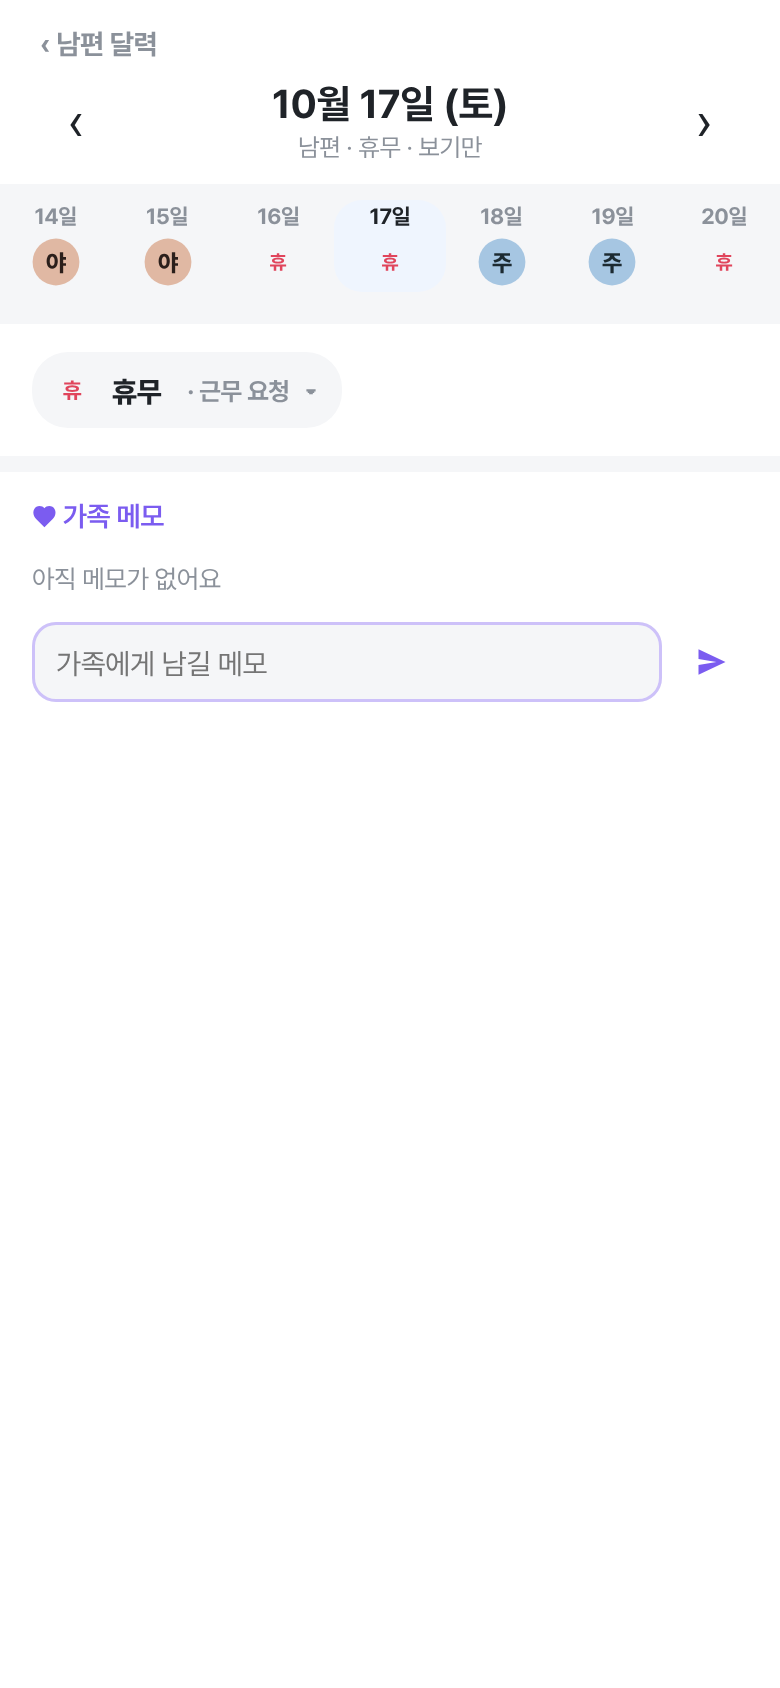
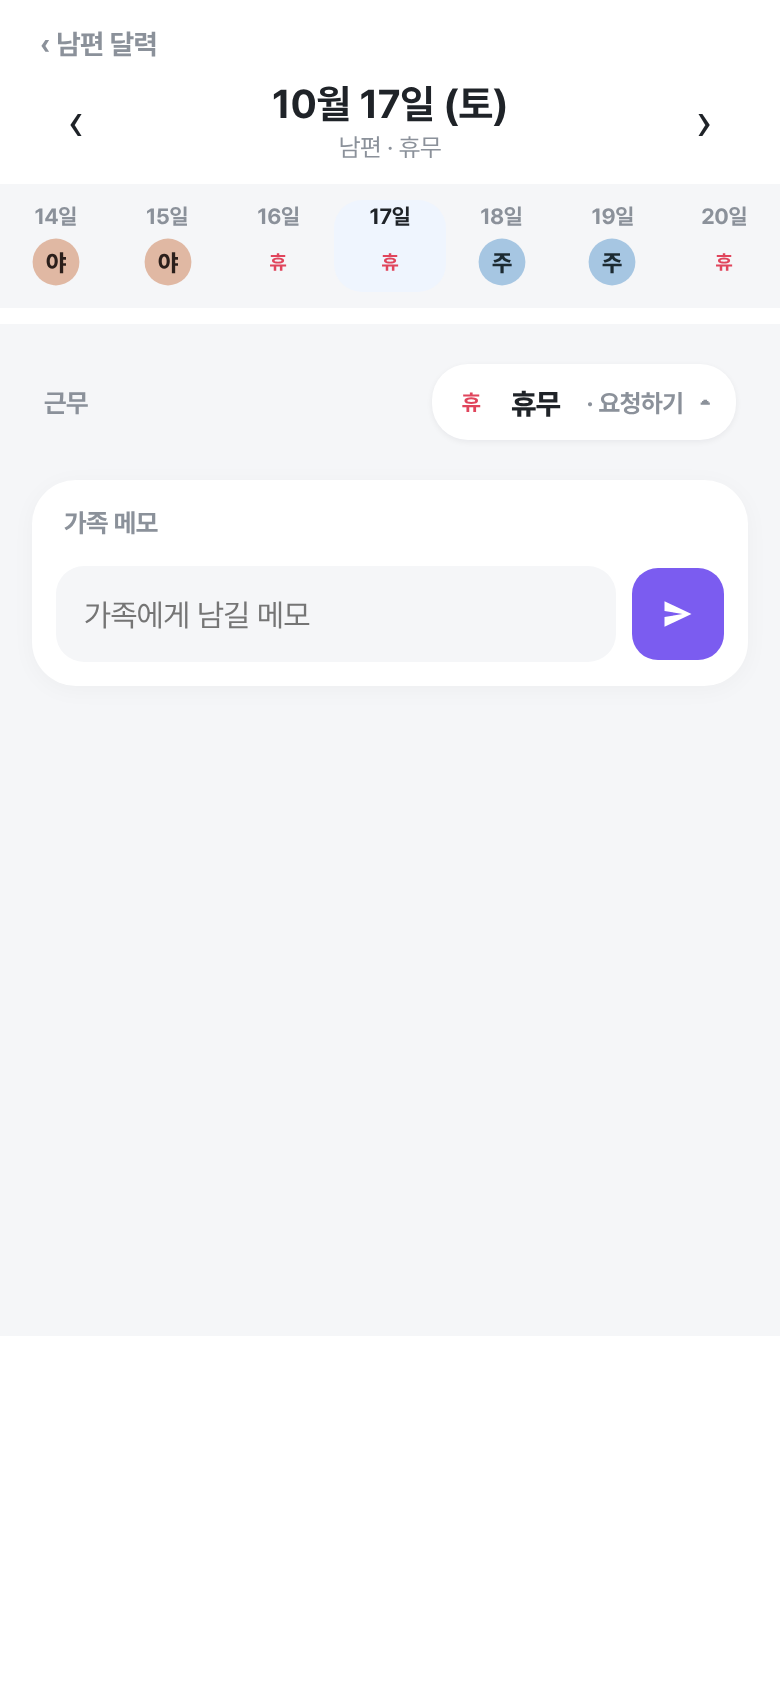
v0.168: 근무 요청 화면(가족 폰) 새 모양
- 내 날짜 창과 같은 짜임: 회색 바탕 · 흰 카드 · 근무 줄 알약
- 근무 칩 → "휴무 → 주간" 확인 줄 → 한마디 → 여러 날 고르기 → 요청 보내기(남은 건수)
- 요청 중이면 상태 카드(취소) · 가족 메모 카드 · "보기만" 뺌
- 시험 s83

Claude-Session: https://claude.ai/code/session_01JTBnEvptp151JygSjZNCTX

diff --git a/app/src/main/assets/index.html b/app/src/main/assets/index.html
@@ -1952,6 +1952,20 @@ html[data-theme="dark"] .tglow .g-hb{stroke:#fff;opacity:.07}
 .cell.today.glowing::after{opacity:1!important}
 .tglow .g-pb{filter:blur(2px);opacity:var(--pe,0)}.tglow .g-po{stroke-width:11px;opacity:.22}.tglow .g-po2{stroke-width:6px;opacity:.4}
 .tglow .g-pin{stroke:#fff;stroke-width:1.6px;opacity:calc(.9*var(--pe,0))}.tglow .g-pin2{stroke-width:5px;opacity:calc(.25*var(--pe,0))}
+/* v0.168 근무 요청 화면(가족 달력 날짜 창) 새 모양 — 내 날짜 창과 같은 짜임 */
+.vrbody .vrcard{display:block}.vrbody .vrcard .tchips{padding:2px 4px 0}
+.vrask{margin:14px 4px 0;font-size:14px;font-weight:600;color:color-mix(in srgb,var(--fg) 70%,var(--bg))}.vrask b{color:var(--fg)}
+.vrbody #rqm2{display:block;width:100%;border:0;background:var(--surface);border-radius:14px;padding:12px 14px;font-size:15px;min-height:56px;margin-top:12px;resize:none;color:var(--fg)}
+.vrbody .paint-btn{margin-top:10px}
+.vrsend{display:flex;align-items:center;justify-content:center;width:100%;height:50px;margin-top:10px;border-radius:14px;font-size:16px;font-weight:800}.vrsend small{font-size:13px;font-weight:600;opacity:.8;margin-left:2px}
+.vrst{display:flex;align-items:center;gap:12px;padding:4px 4px 6px}.vrst+.vrst{border-top:1px solid var(--line);padding-top:10px}
+.vrst .ic{width:40px;height:40px;border-radius:12px;flex:none;display:grid;place-items:center;color:var(--c);background:color-mix(in srgb,var(--c) 12%,var(--bg))}
+.vrst .tx{min-width:0}.vrst b{display:block;font-size:15.5px}.vrst span{font-size:13px;color:var(--muted);font-weight:600}.vrst em{display:block;font-style:normal;font-size:13.5px;color:var(--fg);margin-top:2px}
+.vrst .x{margin-left:auto;flex:none;font-size:13.5px;font-weight:700;color:var(--muted);background:var(--surface);border-radius:999px;padding:7px 12px}
+.vrst+.tchips{margin-top:10px}
+.vrbody .vcm .vcmt{color:var(--muted)}
+.vrbody .vcmemo-bar{display:flex;gap:8px;margin-top:8px}.vrbody .vcmemo-bar input{flex:1;height:48px;border:0;border-radius:14px;background:var(--surface);padding:0 14px;font-size:15.5px;box-shadow:none}
+.vrbody .vcmemo-bar .send{flex:none;width:46px!important;height:46px!important;border-radius:13px!important;background:var(--fam)!important;color:#fff!important;display:grid;place-items:center}
 /* v0.148 빛이 도는 동안: 원래 테두리는 숨기고 빛을 따라 그려지는 선(g-draw)으로 · 끝나면 다시 테두리 */
 .cell.today.glowing::after{opacity:0}
 .tglow .g-draw{stroke-width:3px;opacity:1;stroke:var(--tdc,var(--today))}
@@ -10958,7 +10972,7 @@ function vcMemoHtml(k){
     if(mine&&vcMemoEdit===m.id)return `<div class="mcard fam"><div class="mt2" style="width:100%"><input type="text" id="vcmedit" maxlength="200" value="${esc(m.text)}" style="width:100%"><div class="vcm-btns"><button class="btn sm ghost" data-act="vc-memo-cancel" data-k="${k}">취소</button><button class="btn sm" data-act="vc-memo-save" data-k="${k}" data-mid="${m.id}">저장</button></div></div></div>`;
     return `<div class="mcard fam"><div class="mt2"><span class="tx">${linkify(m.text,{click:true,fam:m.by!==role()})}</span><div class="meta"><span class="who ${m.by===role()?'me':''}">${esc(whoName(m.by))}</span> · ${rel(m.t)}</div></div>${mine?`<span class="vcm-act"><button data-act="vc-memo-edit" data-k="${k}" data-mid="${m.id}" aria-label="고치기">✎</button><button data-act="vc-memo-del" data-k="${k}" data-mid="${m.id}" aria-label="지우기">🗑</button></span>`:''}</div>`;
   }).join('');
-  return `<div class="sec-t" style="color:var(--fam)">♥ 가족 메모</div>${list||'<div class="mempty">아직 메모가 없어요</div>'}
+  return `<div class="sec-t vcmt">가족 메모</div>${list}
     <div class="vcmemo-bar"><input type="text" id="vcmemo" maxlength="200" placeholder="가족에게 남길 메모" enterkeyhint="send"><button class="send fam" data-act="vc-memo-send" data-k="${k}" aria-label="보내기">${ICON.send}</button></div>
     ${famRemain()<=3?`<div class="usage-hint" style="margin-top:4px">무료 ${famRemain()}건 남음 · 가족 모두에게 보이고 알림이 가요</div>`:''}`;
 }
@@ -11040,25 +11054,26 @@ function vcDayHtml(k){
   const mine=reqUniq(S.requests.filter(r=>r.srv&&r.dir==='out'&&r.peer===p.uid&&r.date===k).sort((a,b)=>b.t-a.t));
   const open=mine.some(r=>r.st==='pending'||r.st==='accepted');
   const strip=Array.from({length:61},(_,j)=>j-30).filter(i=>{const x=addDays(d,i),mm=x.getFullYear()*12+x.getMonth();return i===0||(mm>=MIN_M&&mm<=MAX_M);}).map(i=>{const x=addDays(d,i);return `<button class="dsi ${i===0?'on':''}${fmt(x)===dsTK()?' td':''}" data-act="vc-go" data-k="${fmt(x)}"><small>${x.getDate()}일</small>${schBadge(p.sch,schShift(p.sch,x),'sm')}</button>`;}).join('');
-  const tag=open?'요청 중':past?'':'근무 요청',canRq=!past||mine.length,isOpen=vcRqOpen&&canRq;
+  const tag=open?'요청 중':past?'':'요청하기',canRq=!past||mine.length,isOpen=canRq&&(vcRqOpen||open);   // v0.168 새 모양 (시안 design/request): 내 날짜 창과 같은 짜임 · 요청 중이면 상태 카드가 바로 보임
+  const tn=x=>esc(schType(p.sch,x).name||x),ro=x=>josa(schType(p.sch,x).name||x,'으로','로');
+  const RS={pending:['clock','답 기다리는 중','#f08a00'],accepted:['check','수락됐어요','#1fa971'],applied:['check','근무표에 들어갔어요','#1fa971'],rejected:['x','거절됐어요','#e5484d'],cancelled:['x','취소했어요','#8b95a1']};
+  const stCard=r=>{const [ic,lb,c]=RS[r.st]||RS.pending;return `<div class="vrst"><span class="ic" style="--c:${c}">${npi(ic,20)}</span><div class="tx"><b>${tn(r.want)}${ro(r.want)} 요청했어요</b><span>${lb} · ${rel(r.tu||r.t)}</span>${r.reply?`<em>"${esc(r.reply)}"</em>`:''}</div>${r.st==='pending'?`<button class="x" data-act="rqcancel" data-id="${r.id}">취소</button>`:''}</div>`;};
   const chips=(p.sch.types||[]).slice(0,8).map(x=>`<button class="tchip ${want===x.k?'on':''}" data-act="vc-want" data-s="${esc(x.k)}">${schBadge(p.sch,x.k,'tc')}<small>${esc(x.name)}</small></button>`).join('');
-  const body=!isOpen?'':`<div class="sec-t">📩 ${esc(p.name)}에게 근무 요청<button class="sh-fold" data-act="vc-rq">▴ 접기</button></div>
-    ${mine.length?mine.map(r=>reqCard(r)).join(''):''}
-    ${past?'<div class="hint" style="margin:6px 0 0;padding:0">지난 날이에요 · 보기만 돼요</div>':open?'<div class="hint" style="margin:6px 0 0;padding:0">이미 진행 중인 요청이 있어요 · 답을 받은 뒤에 새로 보낼 수 있어요</div>'
-      :`<div class="tchips">${chips}</div>
-        <textarea id="rqm2" placeholder="요청 메시지 (예: 아이 할로윈 파티라 같이 가자)" maxlength="60" style="margin-top:8px;min-height:58px"></textarea>
-        <div class="row" style="margin-top:10px"><div class="usage-hint">무료 ${famRemain()}건 남음</div><span class="grow"></span><button class="btn sm ghost" data-act="vc-multi-from" data-k="${k}">여러 날 고르기</button><button class="btn sm" data-act="vc-send">요청 보내기</button></div>`}`;
+  const form=past||open?'':`<div class="tchips">${chips}</div>
+        ${want!==sh?`<div class="vrask"><b>${esc(ty.name)} → ${tn(want)}</b>${ro(want)} 바꿔 달라고 할게요</div>`:''}
+        <textarea id="rqm2" placeholder="한마디 (예: 아이 학예회라 같이 가자)" maxlength="60"></textarea>
+        <button class="paint-btn" data-act="vc-multi-from" data-k="${k}">${npi('calendar-days',18)}<b>여러 날 고르기</b><i>›</i></button>
+        <button class="btn vrsend" data-act="vc-send">요청 보내기<small> · ${famRemain()}건 남음</small></button>`;
+  const card=!isOpen?'':`<div class="sh-card vrcard">${mine.map(stCard).join('')}${form}</div>`;
   return `<div class="dtop"><button data-act="close">‹ ${esc(p.name)} 달력</button></div>
     <div class="dfh"><button class="ib" data-act="vc-go" data-k="${fmt(addDays(d,-1))}" aria-label="전날">‹</button>
-      <div class="dft"${dsTgo(k,'vc-go')}><b class="${hol?'hl':''}">${d.getMonth()+1}월 ${d.getDate()}일 (${DOW[d.getDay()]})</b><small>${esc(p.name)} · ${esc(ty.name)} · 보기만${hol?` · <span class="hl">${esc(hol)}</span>`:''}${dsTdy(k)}</small>${dsHint(k)}</div>
+      <div class="dft"${dsTgo(k,'vc-go')}><b class="${hol?'hl':''}">${d.getMonth()+1}월 ${d.getDate()}일 (${DOW[d.getDay()]})</b><small>${esc(p.name)} · ${esc(ty.name)}${hol?` · <span class="hl">${esc(hol)}</span>`:''}${dsTdy(k)}</small>${dsHint(k)}</div>
       <button class="ib" data-act="vc-go" data-k="${fmt(addDays(d,1))}" aria-label="다음날">›</button></div>
     <div class="dstrip" id="dstrip">${strip}</div>
-    <div class="sec shsec vcrq ${isOpen?'open':''}">
-      ${isOpen?'':`<button class="sh-pill" ${canRq?'data-act="vc-rq"':''}>${schBadge(p.sch,sh,'sm')}${esc(ty.name)}${tag?`<small class="vct">· ${tag}</small>`:''}${canRq?'<i>▾</i>':''}</button>`}
-      ${body}
-    </div>
+    <div class="dsbody vrbody">
+    <div class="sec shsec vcrq ${isOpen?'open':''}"><div class="sh-hd"><span>${isOpen&&form?'근무 바꿔 달라고 하기':'근무'}</span><button class="sh-pill" ${canRq?'data-act="vc-rq"':''}>${schBadge(p.sch,sh,'sm')}${esc(ty.name)}${tag?`<small class="vct">· ${tag}</small>`:''}${canRq?'<i class="shc">▾</i>':''}</button></div>${card}</div>
     ${vcDayWx(p,k)}
-    <div class="sec vcm">${vcMemoHtml(k)}</div>`;
+    <div class="sec vcm memsec">${vcMemoHtml(k)}</div></div>`;
 }
 function openVcDay(k){
   const p=famPeers().find(x=>x.uid===vcUid);if(!p)return;

diff --git a/tests/phone/s83.js b/tests/phone/s83.js
@@ -23,12 +23,12 @@ const KST=(y,mo,d,h,mi=0)=>Date.UTC(y,mo-1,d,h-9,mi);const p2=n=>String(n).padSt
     await p.click('#nav [data-tab="cal"]');await p.waitForTimeout(600);
     await p.evaluate(()=>document.querySelector('#vcsl .cell[data-k="2026-10-14"]').click());await p.waitForTimeout(600);
     const d0=await p.evaluate(()=>{const s=document.getElementById('sheet');const y=q=>{const e=s.querySelector(q);return e?Math.round(e.getBoundingClientRect().top):-1;};return {full:s.classList.contains('full'),strip:!!s.querySelector('#dstrip .dsi.on'),pill:(s.querySelector('.vcrq .sh-pill')||{}).innerText||'',rq:!!document.getElementById('rqm2'),yp:y('.vcrq'),yw:y('.wxcard'),ym:y('.vcm'),memo:/9시 지게차 교육/.test(s.innerText),bar:!!document.getElementById('vcmemo'),t:(s.querySelector('.dft')||{}).innerText};});
-    T('날짜 창: 전체 화면 · 날짜 띠 · "야간 · 근무 요청 ▾" (접힘 · 요청 칸 숨김)',d0.full&&d0.strip&&/야간/.test(d0.pill)&&/근무 요청/.test(d0.pill)&&!d0.rq,JSON.stringify(d0));
+    T('날짜 창: 전체 화면 · 날짜 띠 · "야간 · 요청하기 ▾" (접힘 · 요청 칸 숨김) (v0.168)',d0.full&&d0.strip&&/야간/.test(d0.pill)&&/요청하기/.test(d0.pill)&&!d0.rq,JSON.stringify(d0));
     T('순서: 근무 칩 → 날씨 카드 → 가족 메모 (메모 · 쓰는 칸)',d0.yp>0&&d0.yw>d0.yp&&d0.ym>d0.yw&&d0.memo&&d0.bar,JSON.stringify(d0));
-    T('제목 아래: 아빠 · 야간 · 보기만',/아빠 · 야간 · 보기만/.test(d0.t),d0.t);
+    T('제목 아래: 아빠 · 야간 ("보기만" 뺌 · v0.168)',/아빠 · 야간/.test(d0.t)&&!/보기만/.test(d0.t),d0.t);
     await tap(p,'#sheet [data-act="vc-rq"]');await p.waitForTimeout(400);
     const d1=await p.evaluate(()=>({rq:!!document.getElementById('rqm2'),chips:document.querySelectorAll('#sheet .vcrq .tchip').length,send:!!document.querySelector('#sheet [data-act="vc-send"]'),multi:!!document.querySelector('#sheet [data-act="vc-multi-from"]'),t:document.querySelector('#sheet .vcrq').innerText.replace(/\s+/g,' ')}));
-    T('칩 누르면 펼침: 아빠에게 근무 요청 · 근무 동그라미 3개 · 메시지 · 여러 날 · 보내기 · 무료 8건',d1.rq&&d1.chips===3&&d1.send&&d1.multi&&/아빠에게 근무 요청/.test(d1.t)&&/무료 8건/.test(d1.t),JSON.stringify(d1));
+    T('칩 누르면 펼침: 근무 바꿔 달라고 하기 · 근무 동그라미 3개 · "야간 → 휴무" · 여러 날 · 보내기 · 8건 남음 (v0.168)',d1.rq&&d1.chips===3&&d1.send&&d1.multi&&/근무 바꿔 달라고 하기/.test(d1.t)&&/야간 → 휴무/.test(d1.t)&&/8건 남음/.test(d1.t),JSON.stringify(d1));
     await tap(p,'#sheet .vcrq .tchip:nth-child(3)');await p.waitForTimeout(200);
     T('근무 고르기 (휴무)',await p.evaluate(()=>document.querySelector('#sheet .vcrq .tchip.on small').textContent==='휴무'));
     await p.evaluate(()=>{document.getElementById('rqm2').value='같이 가자';document.querySelector('#sheet [data-act="vc-send"]').click();});await p.waitForTimeout(400);

diff --git a/docs/HANDOFF.md b/docs/HANDOFF.md
@@ -481,3 +481,8 @@
 - 지난 날 날씨: wxPastAll 로 저장본 칸 모두 past (wxHistPop · 날짜 창 카드 · wxHistCard). __wx.wxHistPop 시험용.
 - 가족 시간표: 위 "오늘" 링크(fwkNow) 뺌 · fam-mode 를 이미 고른 칸에 눌러도 famGoToday(부드럽게) · 바꿀 때도 다시 그린 뒤 famGoToday.
 - 시험 s101 · s31 · s76 고침.
+
+## v0.168 (덧붙임) 근무 요청 화면(가족 달력 날짜 창) 새 모양 (design/request/v1)
+- vcDayHtml: .dsbody.vrbody(회색 바탕) · sh-hd "근무"/"근무 바꿔 달라고 하기" + 오른쪽 sh-pill(· 요청하기 / · 요청 중) · 펼침 카드 .vrcard: 근무 칩 → .vrask "휴무 → 주간으로 바꿔 달라고 할게요" → #rqm2 → paint-btn 여러 날 고르기 → .vrsend 요청 보내기(N건 남음).
+- 요청 중이면(open) 바로 펼침 · 상태 카드 .vrst (아이콘 · "주간으로 요청했어요" · 답 기다리는 중/수락/거절/적용/취소 · 답장 · pending 이면 취소 = rqcancel).
+- 가족 메모 = memsec 흰 카드 · 제목 회색 · 빈 글 뺌 · 입력 줄 새 모양. "보기만" · 📩 뺌. 시험 s83 고침.

diff --git a/docs/TODO.md b/docs/TODO.md
@@ -2670,7 +2670,7 @@
 - 위 "오늘" 밑줄 링크 뺌 (겹치는 기능)
 - "오늘 가운데" · "주 단위"를 누르면 (이미 골라져 있어도) 오늘 쪽으로 부드럽게 미끄러져 돌아감 — 오늘 가운데 = 오늘이 가운데 · 주 단위 = 이번 주
 
-## 근무 요청 화면(가족 폰 → 근무자 날짜 창) 새 모양 (시안 design/request/v1 · "만들어" 대기)
+## ✅ v0.168 근무 요청 화면(가족 폰 → 근무자 날짜 창) 새 모양
 - 내 날짜 창과 같은 짜임: 회색 바탕 · 흰 카드 · "근무" 줄 오른쪽 알약(휴무 · 요청하기 ▾) · 날짜 띠 고른 날 테두리
 - 펼치면: 근무 칩(파란 고리) → "휴무 → 주간으로 바꿔 달라고 할게요" 한 줄 → 한마디 칸 → 여러 날 고르기(연파랑 · 칠하기 버튼 모양) → 요청 보내기(남은 건수)
 - 요청 중: 상태 카드 하나(주간으로 요청했어요 · 답 기다리는 중 · 취소)
